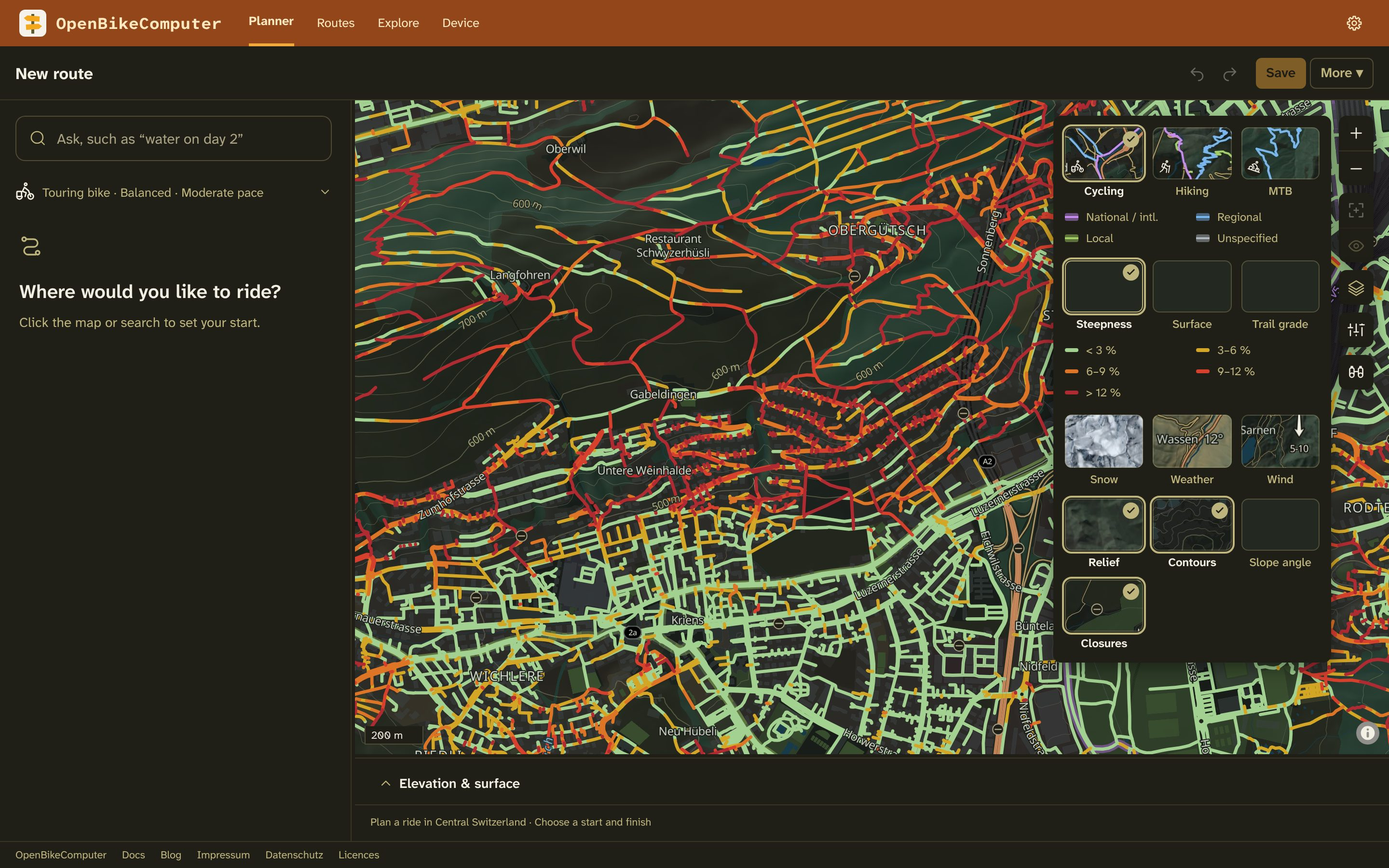
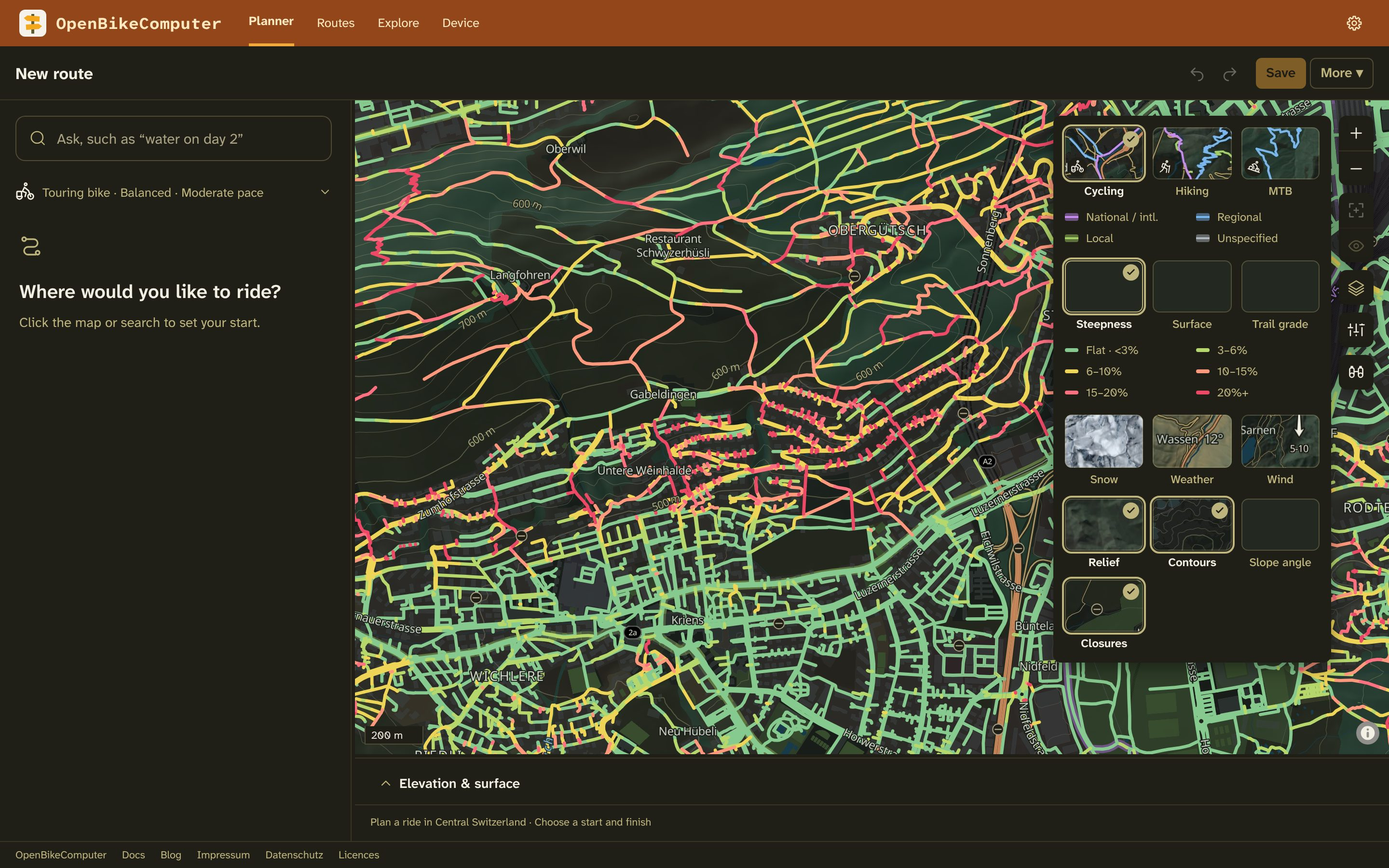
prototype: steepness on the grade scale of the elevation profile
Claude-Session: https://claude.ai/code/session_01Wqws1c9uQRBGGaaPm62HMf

diff --git a/builder/web/src/lib/planner/road-layers-prototype.ts b/builder/web/src/lib/planner/road-layers-prototype.ts
@@ -1,5 +1,6 @@
 import type { ExpressionSpecification, Map } from 'maplibre-gl';
 import type { BikeType } from './riding-profiles';
+import { gradeBands, gradeThresholds } from './grade-data';
 
 /** Prototype: road layers from the file of `road-layers-prototype/build-data.py`, served next to the planner page. */
 export type RoadLayer = 'steepness' | 'surface' | 'grade';
@@ -9,14 +10,9 @@ export const roadLayers: { id: RoadLayer; label: string }[] = [
 type Theme = 'light' | 'dark';
 type Class = { label: string; light: string; dark: string; faint?: boolean };
 
-// Climb-profile colours; the lightness falls from flat to steep in both themes.
-const steepness: Class[] = [
-    { label: '< 3 %', light: '#b2d6a0', dark: '#a2d192' },
-    { label: '3–6 %', light: '#e0b21c', dark: '#d4a626' },
-    { label: '6–9 %', light: '#e2781a', dark: '#de7426' },
-    { label: '9–12 %', light: '#c8321f', dark: '#d8402e' },
-    { label: '> 12 %', light: '#7a1018', dark: '#b02a32' },
-];
+// The flat band and the climb bands of the elevation profile: the map has no direction of travel.
+const steepness: Class[] = gradeBands.slice(gradeThresholds.length, 2 * gradeThresholds.length + 1)
+    .map(band => ({ label: band.label, light: band.color, dark: band.dark }));
 // The router's surface classes, in order of `Surface` in planner/router/src/model.rs.
 const surface: Class[] = [
     { label: 'Unknown', light: '#9a9a9a', dark: '#777777', faint: true },

diff --git a/builder/web/road-layers-prototype/build-data.py b/builder/web/road-layers-prototype/build-data.py
@@ -7,7 +7,7 @@ The heights come from the planner release's Terrarium tiles at zoom 12 (`--terra
 Copernicus GLO-30 tiles, downloaded into --dem-dir. `--slope-out` also writes the slope angle of the terrain as one
 image in Web Mercator, with its corners in FILE.png.json.
 """
-import argparse, gzip, json, math, os, subprocess, sys, urllib.request
+import argparse, gzip, json, math, os, re, subprocess, sys, urllib.request
 import numpy as np
 import osmium
 import rasterio
@@ -29,7 +29,9 @@ SURFACE = {**dict.fromkeys(["asphalt", "paved", "concrete", "concrete:plates", "
 SAC = {"strolling": 0, "hiking": 1, "mountain_hiking": 2, "demanding_mountain_hiking": 3, "alpine_hiking": 4,
        "demanding_alpine_hiking": 5, "difficult_alpine_hiking": 6}
 R = 6378137.0
-SLOPE_BREAKS = [3, 6, 9, 12]  # percent: classes 0..4
+# The grade scale of the planner's elevation profile: `gradeThresholds` in grade-data.ts.
+SLOPE_BREAKS = [float(v) for v in re.search(r"gradeThresholds = \[([^\]]*)\]", open(os.path.join(
+    os.path.dirname(os.path.abspath(__file__)), "../src/lib/planner/grade-data.ts")).read()).group(1).split(",")]
 STEP_M, WINDOW_M = 25.0, 100.0
 
 
@@ -224,7 +226,13 @@ def main():
                 continue
             for slope, line in parts:
                 features.append(({**props, "slope": slope}, line))
-    print(f"{len(seen)} ways, {len(features)} stretches", file=sys.stderr)
+    print(f"{len(seen)} ways, {len(features)} stretches; slope classes from {SLOPE_BREAKS}", file=sys.stderr)
+    for kind in (False, True):
+        length = np.zeros(len(SLOPE_BREAKS) + 1)
+        for props, line in features:
+            if props["path"] == kind:
+                length[props["slope"]] += sum(metres(a, b) for a, b in zip(line, line[1:]))
+        print(("paths and tracks" if kind else "roads") + ": " + ", ".join(f"{v / length.sum():.0%}" for v in length), file=sys.stderr)
     write_tiles(features, bbox, args.out)
 
 
